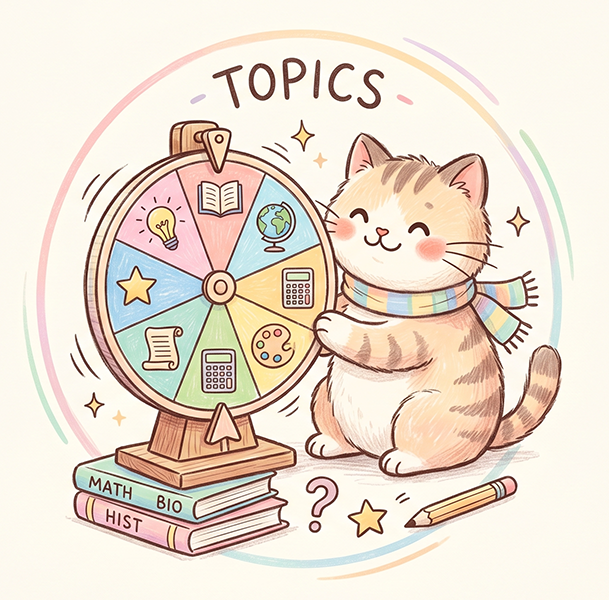
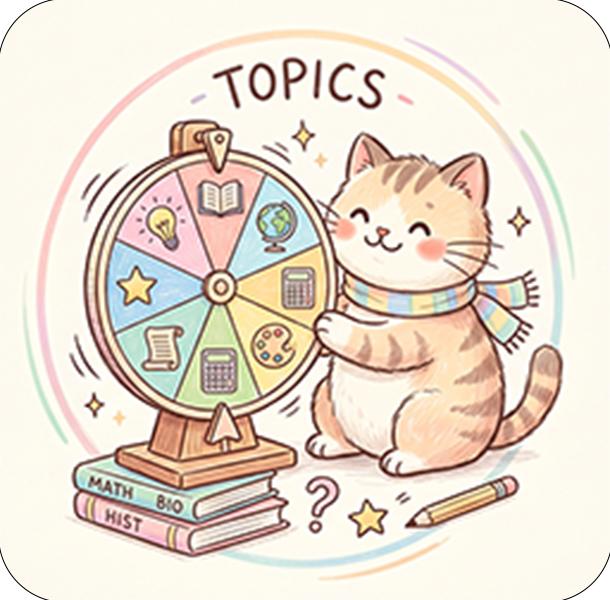
transfer

diff --git a/src/handles/db_init.rs b/src/handles/db_init.rs
@@ -1,13 +1,24 @@
 use std::sync::{Arc, Mutex};
 use std::path::PathBuf;
+use std::fs;
 use crate::{errors::AppError, structs::AppState};
 use rusqlite::Connection;
 
+// Embed the database bytes into the binary at compile-time
+const DB_BYTES: &[u8] = include_bytes!("../../pharma_subs.db");
+
 pub fn init_db() -> Result<AppState, AppError> {
+    let path = db_path();
+    
+    if !path.exists() {
+        if let Some(parent) = path.parent() {
+            fs::create_dir_all(parent).map_err(AppError::Io)?;
+        }
+        fs::write(&path, DB_BYTES).map_err(AppError::Io)?;
+    }
 
-    let conn = Connection::open(db_path())?;
+    let conn = Connection::open(&path).map_err(AppError::Db)?;
     conn.execute("PRAGMA foreign_keys = ON;", [])?;
-
 
     Ok(AppState { 
         pool: Arc::new(Mutex::new(conn)) 
@@ -15,16 +26,10 @@ pub fn init_db() -> Result<AppState, AppError> {
 }
 
 pub fn db_path() -> PathBuf {
-    
-    let local_path = PathBuf::from("pharma_subs.db");
-    if local_path.exists() {
-        return local_path;
-    }
-
     let mut path = dirs::data_local_dir()
-        .expect("could not find data dir");
+        .expect("Could not find system data directory");
+    
     path.push("subject_randomizer");
-    std::fs::create_dir_all(&path).ok();
     path.push("pharma_subs.db");
     path
 }

diff --git a/src/errors/err.rs b/src/errors/err.rs
@@ -4,4 +4,7 @@ use thiserror::Error;
 pub enum AppError {
     #[error("Database error: {0}")]
     Db(#[from] rusqlite::Error),
+    
+    #[error("IO error: {0}")]
+    Io(#[from] std::io::Error),
 }

diff --git a/src/ui/card_ui.rs b/src/ui/card_ui.rs
@@ -36,7 +36,7 @@ pub fn Card() -> Element {
     match &*resource_read {
         Some(Ok(topics)) => {
             rsx! {
-                document::Stylesheet { href: asset!("/assets/main.css")}
+                document::Stylesheet { href: asset!("assets/main.css")}
                 div {  
                     class: "main-container",
                     div { 